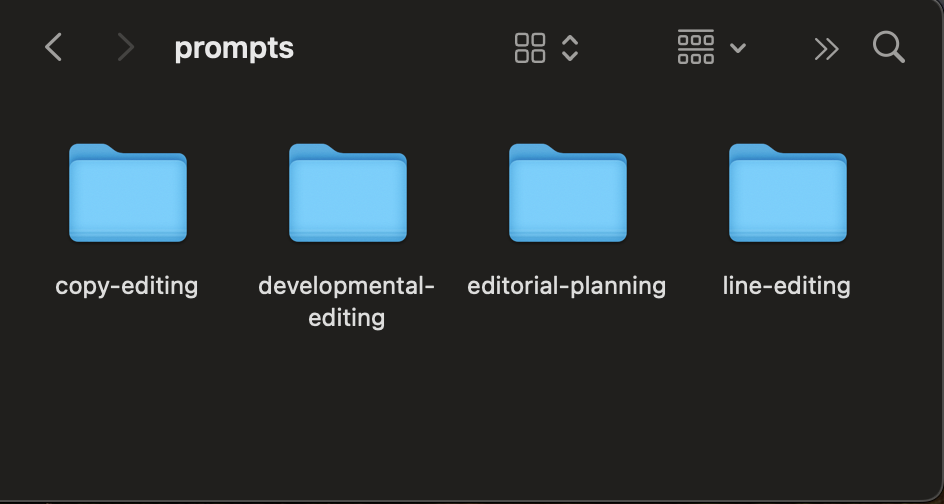
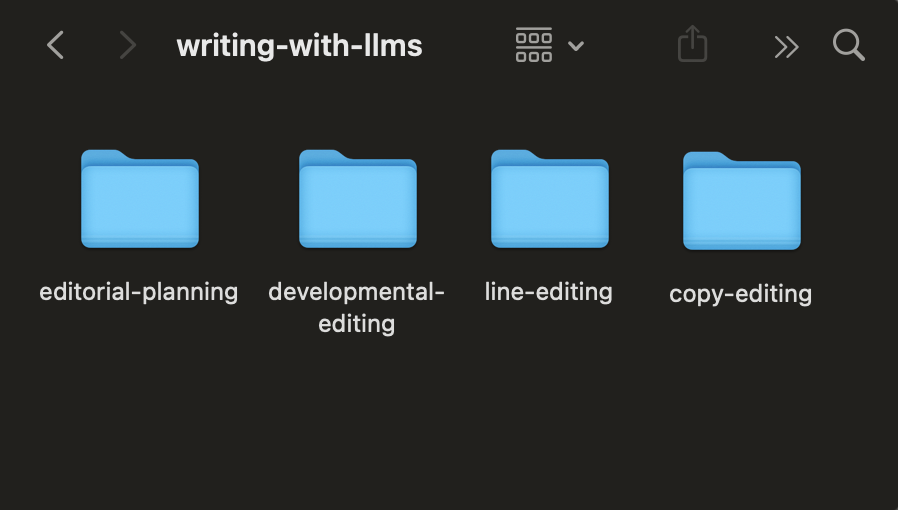
Replace writing with LLMs cover screenshot

diff --git a/content/essays/writing-with-llms.md b/content/essays/writing-with-llms.md
@@ -5,7 +5,7 @@ title = 'How to Write With AI Without Letting It Write for You'
 
 [cover]
 image = 'images/writing-with-llms/cover.png'
-alt = 'Prompt folders for copy editing, developmental editing, editorial planning, and line editing'
+alt = 'Writing workflow folders for editorial planning, developmental editing, line editing, and copy editing'
 hiddenInSingle = true
 hiddenInList = true
 +++
